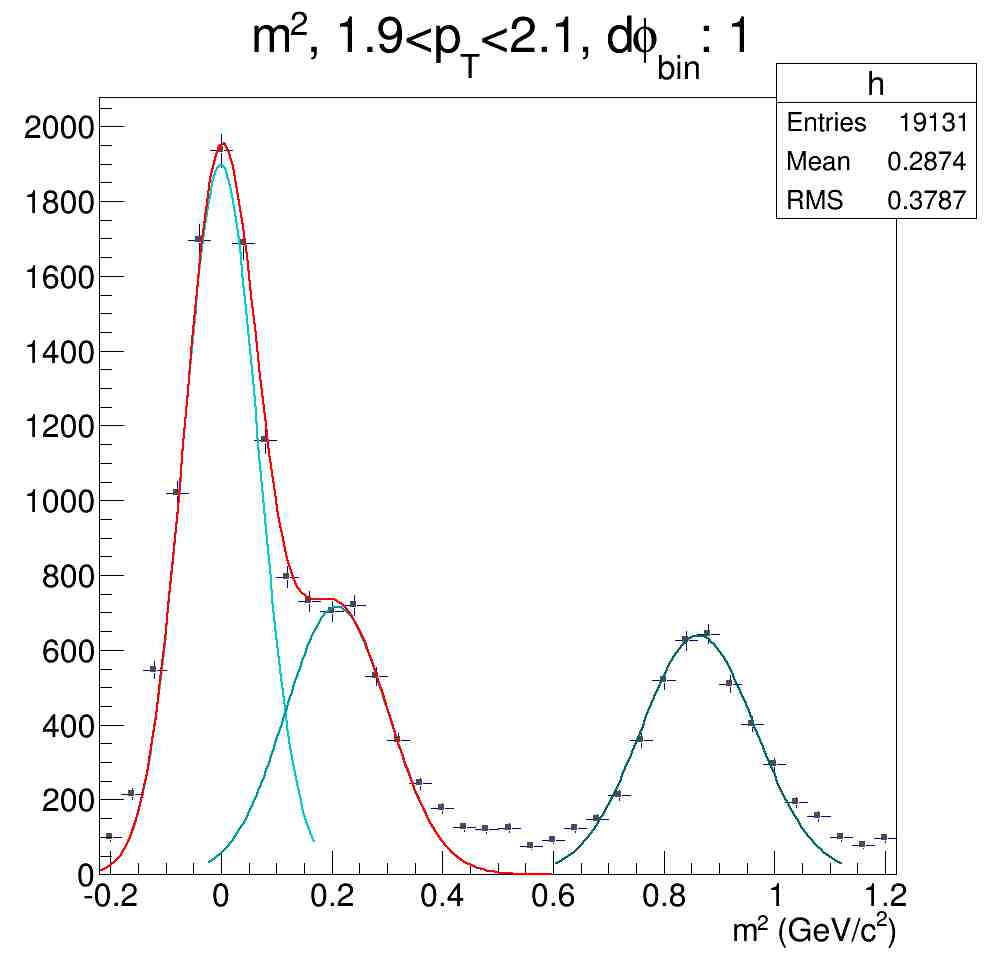
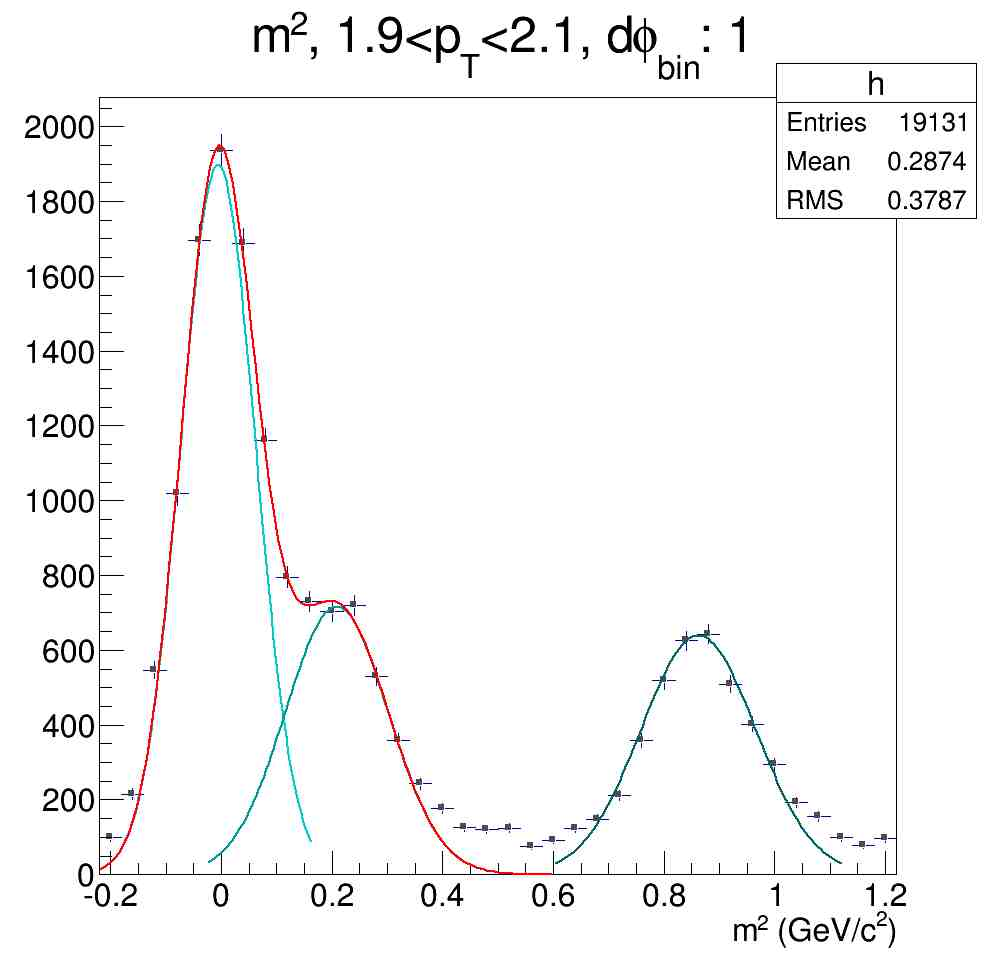
1st draft of results for positives

Changed region(s): [[0.1245, 0.1543, 0.3735, 0.8642], [0.0934, 0.8642, 0.1245, 0.8951]]

diff --git a/drawV2.C b/drawV2.C
@@ -50,33 +50,32 @@ v2rawterr[10]=0.000605382;
 v2rawterr[11]=0.000681793;
 
 
-  TGraphErrors *gr_v2pion = new TGraphErrors(14,pt,v2pion,pterr,v2errpion);
-  TGraphErrors *gr_v2kaon = new TGraphErrors(14,pt,v2kaon,pterr,v2errkaon);
-  TGraphErrors *gr_v2prot = new TGraphErrors(14,pt,v2prot,pterr,v2errprot);
+  TGraphErrors *gr_v2pion = new TGraphErrors(15,pt,v2pion,pterr,v2errpion);
+  TGraphErrors *gr_v2kaon = new TGraphErrors(15,pt,v2kaon,pterr,v2errkaon);
+  TGraphErrors *gr_v2prot = new TGraphErrors(15,pt,v2prot,pterr,v2errprot);
   TGraphErrors *gr_v2allt = new TGraphErrors(12,pt,v2allt,pterr,v2errallt);
   TGraphErrors *gr_v2rawt = new TGraphErrors(12,pt,v2rawt,pterr,v2rawterr);
 
-  gr_v2pion->RemovePoint(12);
   c1 = new TCanvas("c1","c1",1200,1200);
   c1->cd();
-  drawFrame(0,0,3,0.3,"Transverse Momentum (GeV/c)","elliptic flow (v_{2})");
+  drawFrame(0,0,6,0.35,"Transverse Momentum (GeV/c)","elliptic flow (v_{2})");
   //drawTitle(.1,-.07,"Identified Particle Elliptic Flow (v_{2}), TOF.W + ACC",1,12,.03,0);
   drawTitle(.1,-.07,"Charged Track Elliptic Flow (v_{2})",1,12,.03,0);
-  gr_v2pion->RemovePoint(13);
-  gr_v2kaon->RemovePoint(13);
-  gr_v2prot->RemovePoint(13);
-  gr_v2rawt->RemovePoint(13);
+  //gr_v2pion->RemovePoint(13);
+  //gr_v2kaon->RemovePoint(13);
+  //gr_v2prot->RemovePoint(13);
+  //gr_v2rawt->RemovePoint(13);
 
-  gr_v2pion->RemovePoint(12);
-  gr_v2kaon->RemovePoint(12);
-  gr_v2prot->RemovePoint(12);
-  gr_v2rawt->RemovePoint(12);
+  //gr_v2pion->RemovePoint(12);
+  //gr_v2kaon->RemovePoint(12);
+  //gr_v2prot->RemovePoint(12);
+  //gr_v2rawt->RemovePoint(12);
 
   
-  gr_v2pion->SetMarkerSize(2.5); gr_v2pion->SetMarkerColor(pioncolor);  gr_v2pion->SetLineColor(pioncolor); gr_v2pion->SetMarkerStyle(20); 
-  gr_v2kaon->SetMarkerSize(2.5); gr_v2kaon->SetMarkerColor(kaoncolor);  gr_v2kaon->SetLineColor(kaoncolor); gr_v2kaon->SetMarkerStyle(20); 
-  gr_v2prot->SetMarkerSize(2.5); gr_v2prot->SetMarkerColor(protcolor);  gr_v2prot->SetLineColor(protcolor); gr_v2prot->SetMarkerStyle(20); 
-  gr_v2allt->SetMarkerSize(2.5); gr_v2allt->SetMarkerColor(6);  gr_v2allt->SetLineColor(6); gr_v2allt->SetMarkerStyle(29); 
+  gr_v2pion->SetMarkerSize(2.1); gr_v2pion->SetMarkerColor(pioncolor);  gr_v2pion->SetLineColor(pioncolor); gr_v2pion->SetMarkerStyle(20); 
+  gr_v2kaon->SetMarkerSize(2.1); gr_v2kaon->SetMarkerColor(kaoncolor);  gr_v2kaon->SetLineColor(kaoncolor); gr_v2kaon->SetMarkerStyle(20); 
+  gr_v2prot->SetMarkerSize(2.1); gr_v2prot->SetMarkerColor(protcolor);  gr_v2prot->SetLineColor(protcolor); gr_v2prot->SetMarkerStyle(20); 
+  gr_v2allt->SetMarkerSize(2.1); gr_v2allt->SetMarkerColor(6);  gr_v2allt->SetLineColor(6); gr_v2allt->SetMarkerStyle(29); 
   //gr_v2rawt->SetMarkerSize(2); gr_v2rawt->SetMarkerColor(1);  gr_v2rawt->SetLineWidth(2);  gr_v2rawt->SetLineColor(1); gr_v2rawt->SetMarkerStyle(22);  gr_v2rawt->Draw("P");
 
   gr_v2pion->SetLineStyle(7); gr_v2pion->SetLineWidth(3);   gr_v2pion->Draw("P");
@@ -84,7 +83,7 @@ v2rawterr[11]=0.000681793;
   gr_v2prot->SetLineStyle(7); gr_v2prot->SetLineWidth(3);   gr_v2prot->Draw("P");
   gr_v2allt->SetLineStyle(7); gr_v2allt->SetLineWidth(3);   //gr_v2allt->Draw("CP");
   
-  legend = new TLegend(0.2,0.9,0.7,0.8,0);
+  legend = new TLegend(0.2,0.9,0.7,0.85,0);
   legend->SetNColumns(3);   legend->SetBorderSize(0);
   legend->AddEntry(gr_v2pion,"#pi+","p");
   legend->AddEntry(gr_v2kaon,"K+","p");
@@ -102,6 +101,8 @@ void initParams()
   for(int i=0 ; i<=15 ; i++) {
     pt[i] = 0.5+i*0.2 +0.1;
     pterr[i] = 0.0;
+    if(i>11) pt[i] = 3.0 +((i-12)*0.5)+0.25;
+    if(i>=14) { pt[i] = 4.5+(i-14) + 0.5;  }
   }
 
 v2allt[0] = 0.0110464;     v2errallt[0] = 5.2853e-006;
@@ -135,19 +136,19 @@ v2pion[5] = 0.0262748;     v2errpion[5] = 8.90982e-005;
 v2kaon[5] = 0.033035;      v2errkaon[5] = 0.000152661;
 v2prot[5] = 0.0335092;     v2errprot[5] = 0.000208749;
 
-v2allt[6] = 0.0347729;     v2errallt[6] = 0.00013244;
-v2pion[6] = 0.0268752;     v2errpion[6] = 0.000141449;
-v2kaon[6] = 0.0417866;     v2errkaon[6] = 0.000239009;
-v2prot[6] = 0.0479764;     v2errprot[6] = 0.000297471;
+v2allt[6] = 0.0339546;     v2errallt[6] = 0.000132442;
+v2pion[6] = 0.0273248;     v2errpion[6] = 0.000141485;
+v2kaon[6] = 0.0398769;     v2errkaon[6] = 0.000238755;
+v2prot[6] = 0.0442805;     v2errprot[6] = 0.000297732;
 
-v2allt[7] = 0.0355309;     v2errallt[7] = 0.000236224;
-v2pion[7] = 0.0292939;     v2errpion[7] = 0.000318738;
-v2kaon[7] = 0.0426542;     v2errkaon[7] = 0.000418053;
-v2prot[7] = 0.047862;      v2errprot[7] = 0.0003126;
+v2allt[7] = 0.0350619;     v2errallt[7] = 0.000235844;
+v2pion[7] = 0.0299492;     v2errpion[7] = 0.000318159;
+v2kaon[7] = 0.0405051;     v2errkaon[7] = 0.000418546;
+v2prot[7] = 0.0478619;     v2errprot[7] = 0.0003126;
 
 v2pion[8] = 0.0298951;     v2errpion[8] = 0.0004699;
-v2kaon[8] = 0.0443421;     v2errkaon[8] = 0.000666894;
-v2prot[8] = 0.0472266;     v2errprot[8] = 0.00062743;
+v2kaon[8] = 0.0396922;     v2errkaon[8] = 0.000669895;
+v2prot[8] = 0.046966;      v2errprot[8] = 0.000632564;
 
 v2pion[9] = 0.0275577;     v2errpion[9] = 0.000650622;
 v2kaon[9] = 0.0369777;     v2errkaon[9] = 0.00081272;
@@ -160,6 +161,18 @@ v2prot[10] = 0.0456037;    v2errprot[10] = 0.00202961;
 v2pion[11] = 0.0282585;      v2errpion[11] = 0.00244153;
 v2kaon[11] = 0.0346992;      v2errkaon[11] = 0.00430782;
 v2prot[11] = 0.0435877;    v2errprot[11] = 0.00491859;
+
+v2pion[12] = 0.0248839;      v2errpion[12] = 0.00473314;
+v2kaon[12] = 0.0361253;      v2errkaon[12] = 0.0024278;
+v2prot[12] = 0.0434931;    v2errprot[12] = 0.00303396;
+
+v2pion[13] = 0.02625;      v2errpion[13] = 0.00746721;
+v2kaon[13] = 0.0418611;      v2errkaon[13] = 0.00525059;
+v2prot[13] = 0.0486657;    v2errprot[13] = 0.00656512;
+
+v2pion[14] = 0.025759;     v2errpion[14] = 0.00888207;
+v2kaon[14] = 0.0340744;      v2errkaon[14] = 0.00449614;
+v2prot[14] = 0.0631675;    v2errprot[14] = 0.006439;
 
 
   //pt bin reference

diff --git a/fitInit.C b/fitInit.C
@@ -482,13 +482,13 @@ parstruct loadFitParams(int ptbin) {
     float  kaonfitrange[2]   = {0.15,0.3};
     float  protfitrange[2]   = {0.8,0.9};
     float tunepionheight[6] = {0.965,0.96,0.97,0.98,0.965,0.98};
-    float tunepionwidth[6]  = {0.85,0.85,0.85,0.85,0.86,0.87};
+    float tunepionwidth[6]  = {0.85,0.85,0.86,0.85,0.86,0.87};
     float tunepionmean[6]   = {0,-0.01,-0.01,-0.01,-0.01,0};
-    float tunekaonheight[6] = {1.03,1.05,1.065,1.065,1.065,1.09};
+    float tunekaonheight[6] = {1.03,1.05,1.065,1.072,1.065,1.09};
     float tunekaonwidth[6]  = {0.89,0.90,0.94,0.92,0.95,0.95};
-    float tunekaonmean[6]   = {-0.01,-0.01,-0.02,-0.02,-0.02,-0.02};
+    float tunekaonmean[6]   = {-0.01,-0.01,-0.02,-0.025,-0.02,-0.02};
     float tuneprotheight[6] = {1.025,1.01,1.04,1,1.04,1.01};
-    float tuneprotwidth[6]  = {1,1,1.05,1.01,1.04,0.97};
+    float tuneprotwidth[6]  = {1,1,1.05,1.01,1.04,1};
     float tuneprotmean[6]   = {0,0,0.01,0,0.01,0};
     
   }
@@ -511,11 +511,11 @@ parstruct loadFitParams(int ptbin) {
     float  pionfitrange[2]   = {-0.05,0.05};
     float  kaonfitrange[2]   = {0.15,0.3};
     float  protfitrange[2]   = {0.75,0.95};
-    float tunepionheight[6] = {0.87,0.85,0.84,0.855,0.865,0.87};
-    float tunepionwidth[6]  = {0.76,0.78,0.76,0.74,0.78,0.8};
-    float tunepionmean[6]   = {-0.01,-0.01,-0.01,-0.01,-0.01,-0.01};
-    float tunekaonheight[6] = {1.3,1.3,1.3,1.28,1.3,1.35};
-    float tunekaonwidth[6]  = {0.96,0.97,0.97,0.95,0.97,0.95};
+    float tunepionheight[6] = {0.88,0.85,0.84,0.855,0.865,0.86};
+    float tunepionwidth[6]  = {0.77,0.78,0.77,0.75,0.78,0.8};
+    float tunepionmean[6]   = {-0.01,-0.015,-0.01,-0.01,-0.01,-0.01};
+    float tunekaonheight[6] = {1.29,1.3,1.288,1.29,1.28,1.36};
+    float tunekaonwidth[6]  = {0.96,0.97,0.9,0.98,0.94,0.96};
     float tunekaonmean[6]   = {-0.05,-0.05,-0.05,-0.04,-0.03,-0.05};
     float tuneprotheight[6] = {1.05,1.055,1.01,1,1.04,1.07};
     float tuneprotwidth[6]  = {1.065,1.04,1.04,1.00,1.04,1.06};
